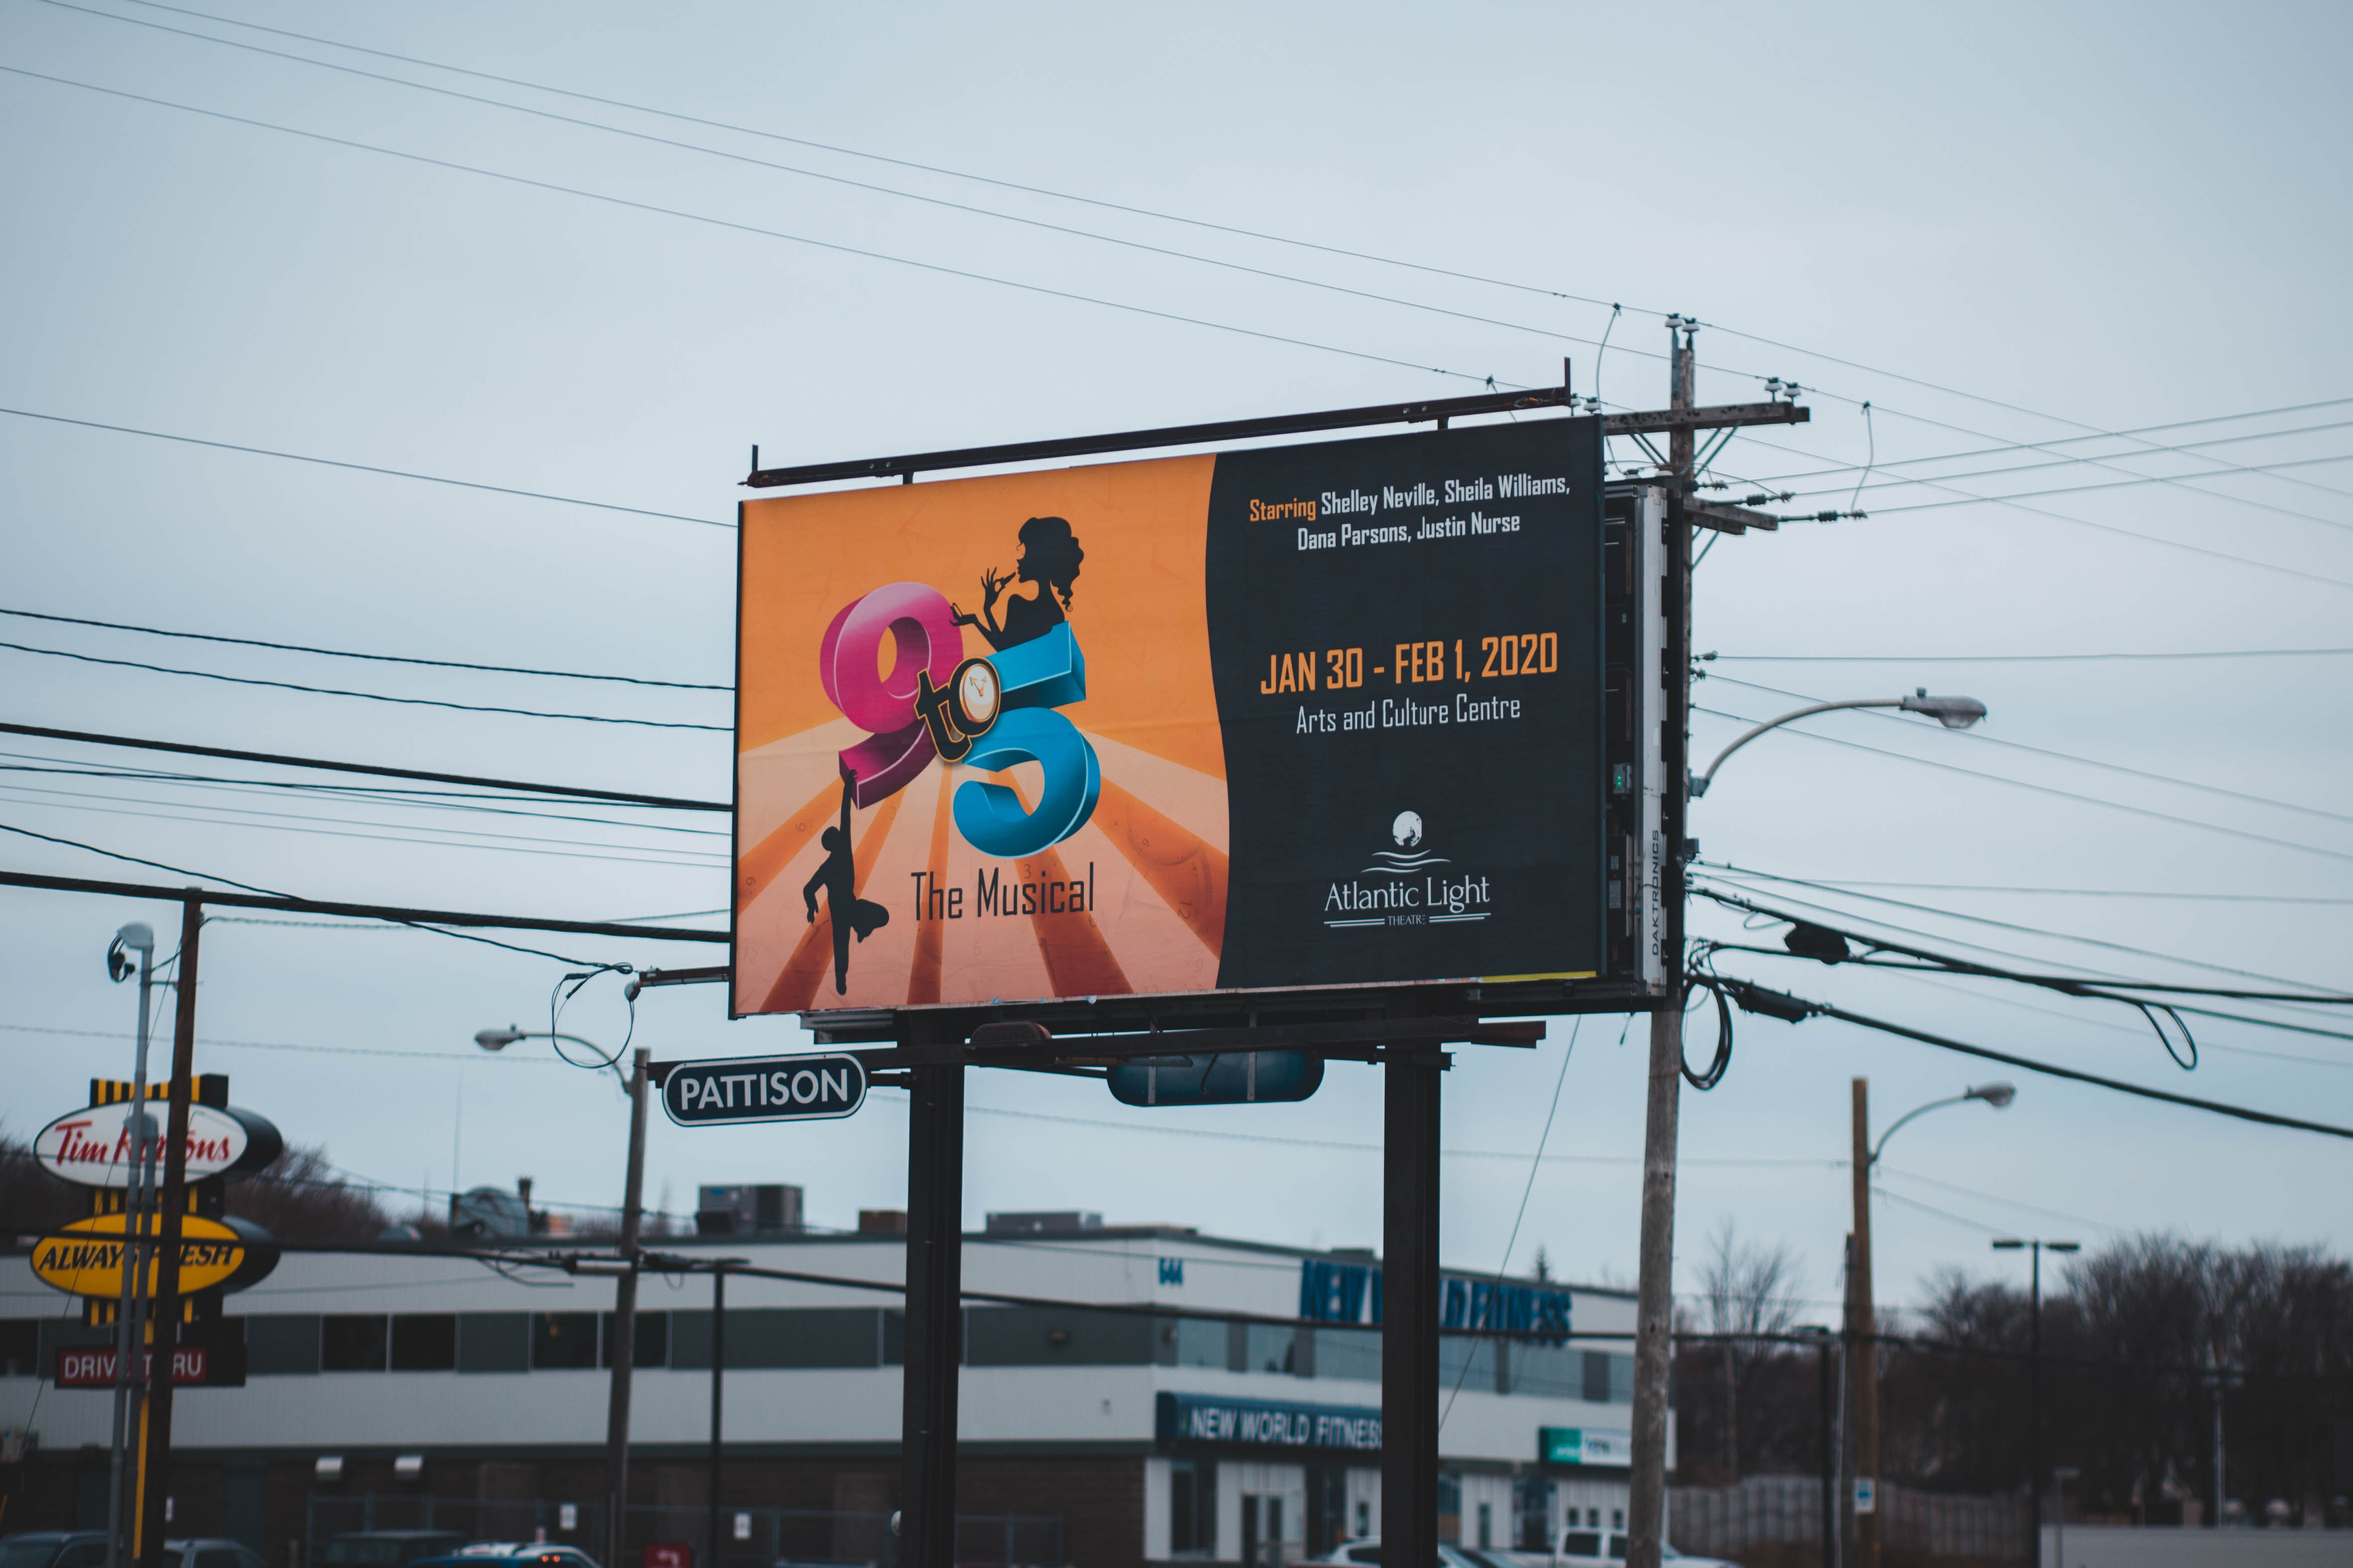
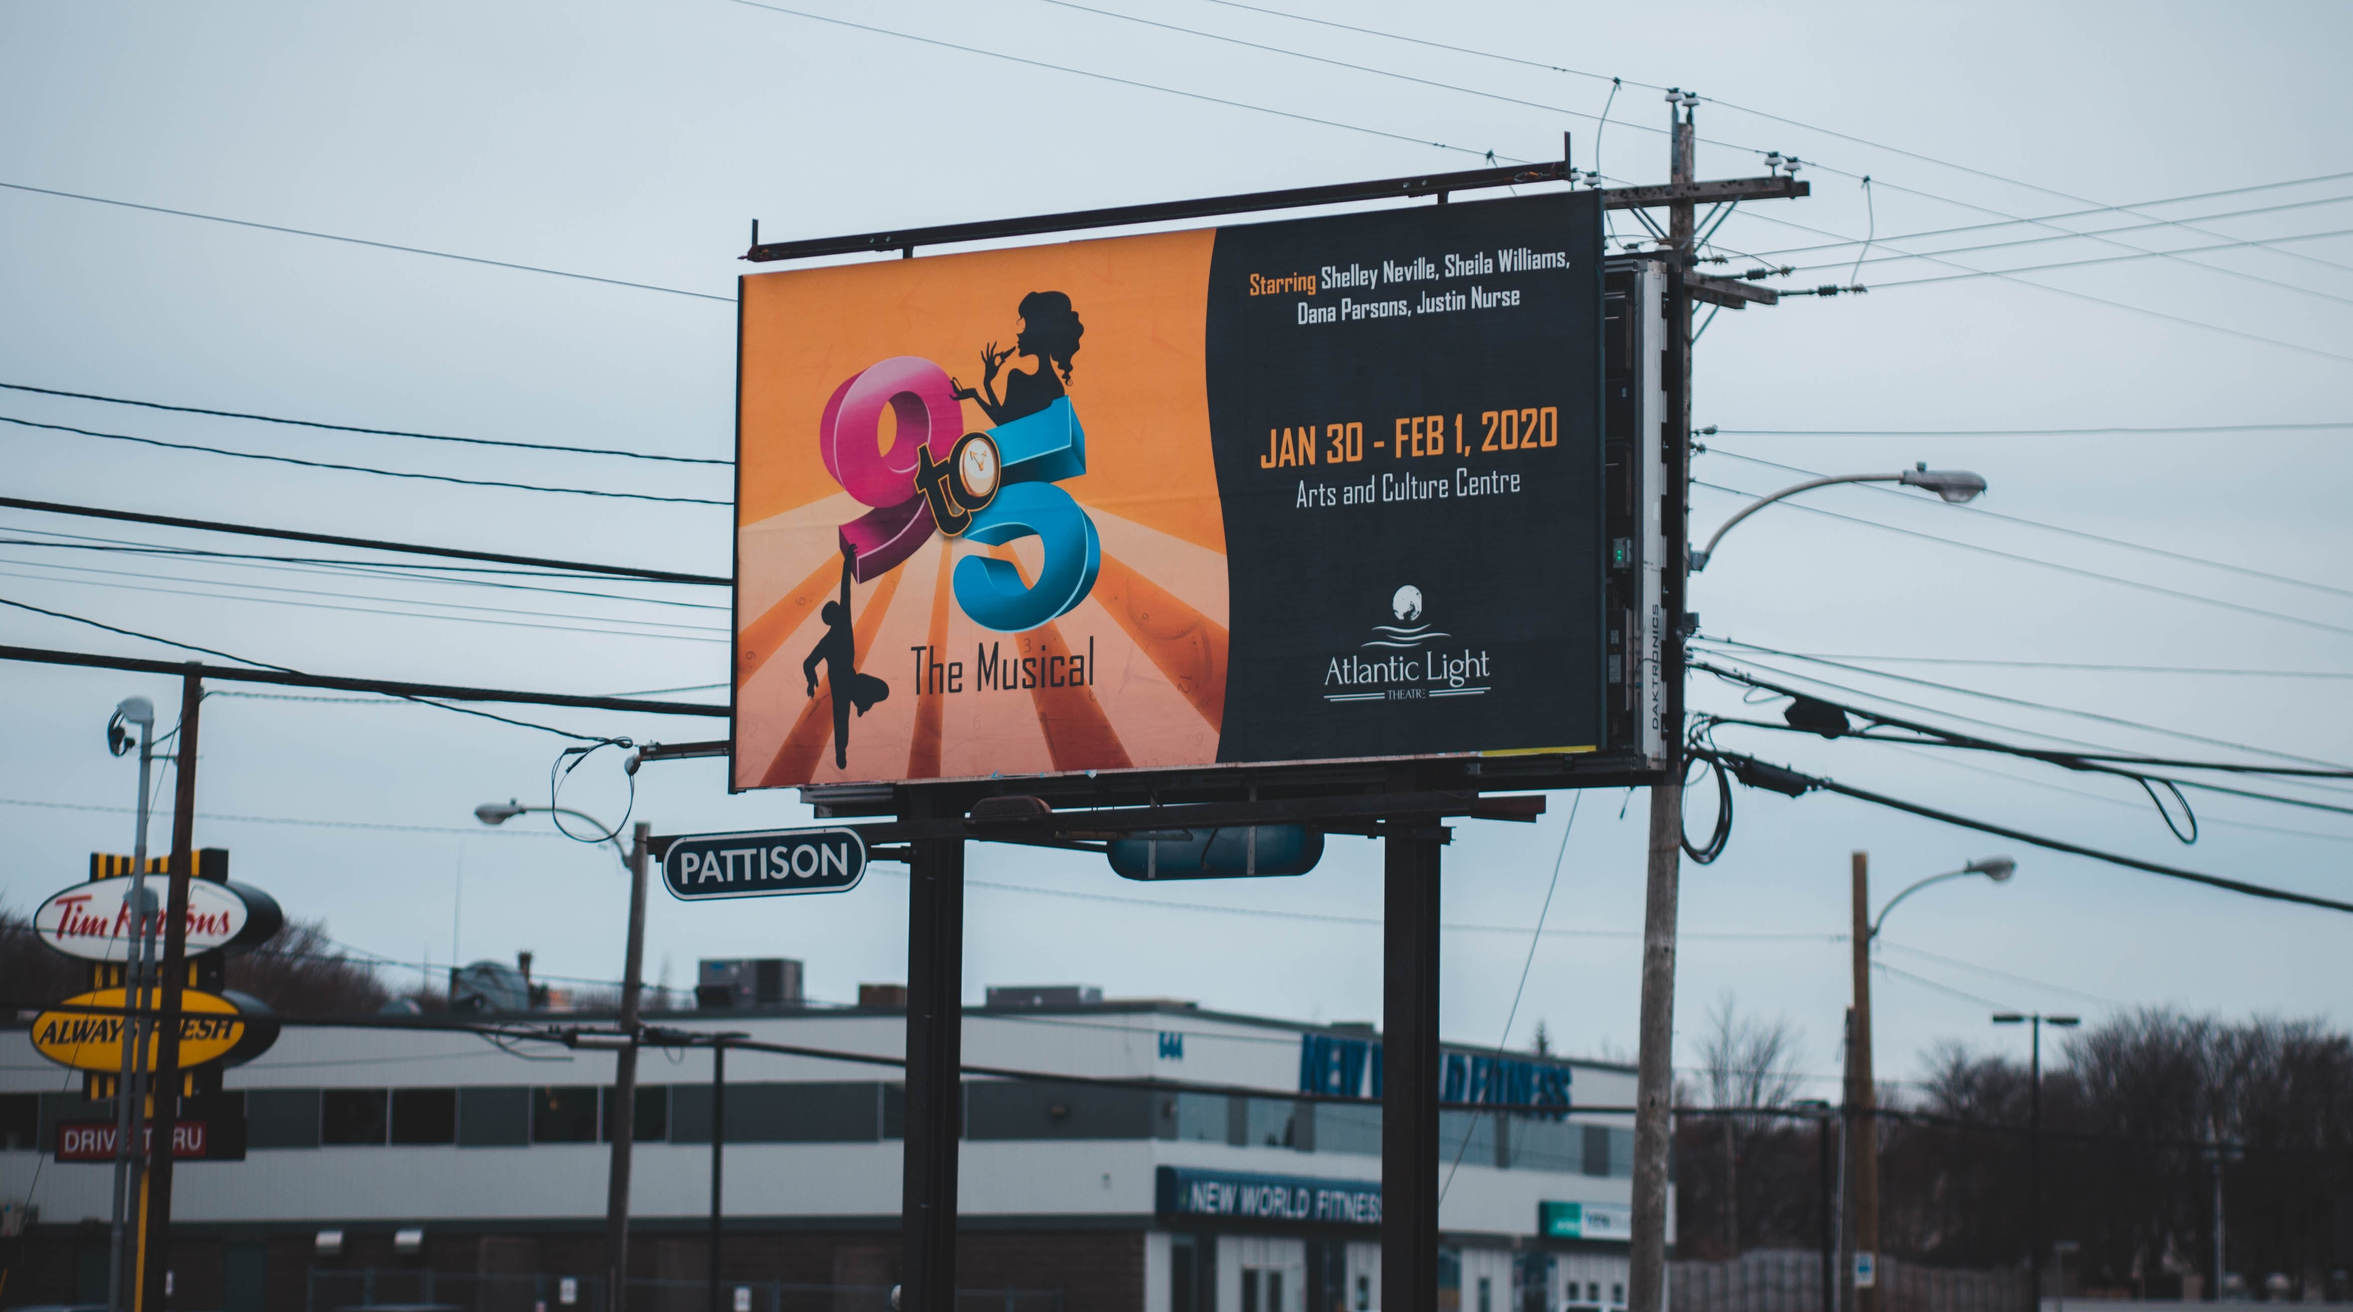
more updates

diff --git a/app/Signs/SignSlider.js b/app/Signs/SignSlider.js
@@ -44,10 +44,9 @@ const SignSlider = () => {
             <Image
               src="/billboard.jpg"
               alt="Installation"
-              layout="responsive"
-              width={1920}
-              height={1080}
-              className="w-full"
+              layout="fill"
+              objectFit="cover"
+              objectPosition="center"
             />
             <div className="absolute top-1/2 left-1/2 transform -translate-x-1/2 -translate-y-1/2 text-white text-center">
             </div>
@@ -58,10 +57,9 @@ const SignSlider = () => {
             <Image
               src="/billboard2.jpg"
               alt="Installation"
-              layout="responsive"
-              width={1920}
-              height={1080}
-              className="w-full"
+              layout="fill"
+              objectFit="cover"
+              objectPosition="center"
             />
             <div className="absolute top-1/2 left-1/2 transform -translate-x-1/2 -translate-y-1/2 text-white text-center">
             </div>
@@ -72,10 +70,9 @@ const SignSlider = () => {
             <Image
                 src="/billboard3.jpg"
                 alt="Installation"
-                layout="responsive"
-                width={1920}
-                height={1080}
-                className="w-full"
+                layout="fill"
+                objectFit="cover"
+                objectPosition="center"
               />
             <div className="absolute top-1/2 left-1/2 transform -translate-x-1/2 -translate-y-1/2 text-white text-center">
             </div>
@@ -86,10 +83,9 @@ const SignSlider = () => {
             <Image
                 src="/culvers.jpg"
                 alt="Installation"
-                layout="responsive"
-                width={1920}
-                height={1080}
-                className="w-full"
+                layout="fill"
+                objectFit="cover"
+                objectPosition="center"
               />
             <div className="absolute top-1/2 left-1/2 transform -translate-x-1/2 -translate-y-1/2 text-white text-center">
             </div>
@@ -100,10 +96,9 @@ const SignSlider = () => {
             <Image
                 src="/welding.jpg"
                 alt="Installation"
-                layout="responsive"
-                width={1920}
-                height={1080}
-                className="w-full"
+                layout="fill"
+                objectFit="cover"
+                objectPosition="center"
               />
             <div className="absolute top-1/2 left-1/2 transform -translate-x-1/2 -translate-y-1/2 text-white text-center">
             </div>

diff --git a/app/page.js b/app/page.js
@@ -8,14 +8,14 @@ export default function Home() {
     <div>
       <div className='py-16 bg-custom-color'>
         <div>
-        <Image
-          src="/kingmanSign2.jpg"
-          alt="Installation"
-          layout="responsive"
-          width={1920}
-          height={1080}
-          className="w-full h-[calc(100vh-64px)]"
-        />
+          <Image
+            src="/kingmanSign2.jpg"
+            alt="Installation"
+            layout="responsive"
+            width={1920}
+            height={1080}
+            className="w-full h-[calc(100vh-64px)]"
+          />
         </div>
         <div className="w-full pt-16">
           <div>

diff --git a/app/Contact/page.js b/app/Contact/page.js
@@ -1,13 +1,21 @@
 "use client"
 import React from 'react';
 import Footer from './Footer';
-import ContactImage from './ContactImage';
 import ContactForm from './ContactForm';
+import Image from 'next/image';
 
 export default function Contact() {
   return (
     <div className="pt-16 bg-custom-color">
-      <ContactImage/>
+      <div className="h-96 w-full relative">
+        <Image
+          alt='ra'
+          src='/railroadParkCrop.jpg'
+          layout='fill'
+          objectFit='cover'
+          objectPosition="bottom"
+        />
+      </div>
       <ContactForm/>
       <Footer/>
     </div>
